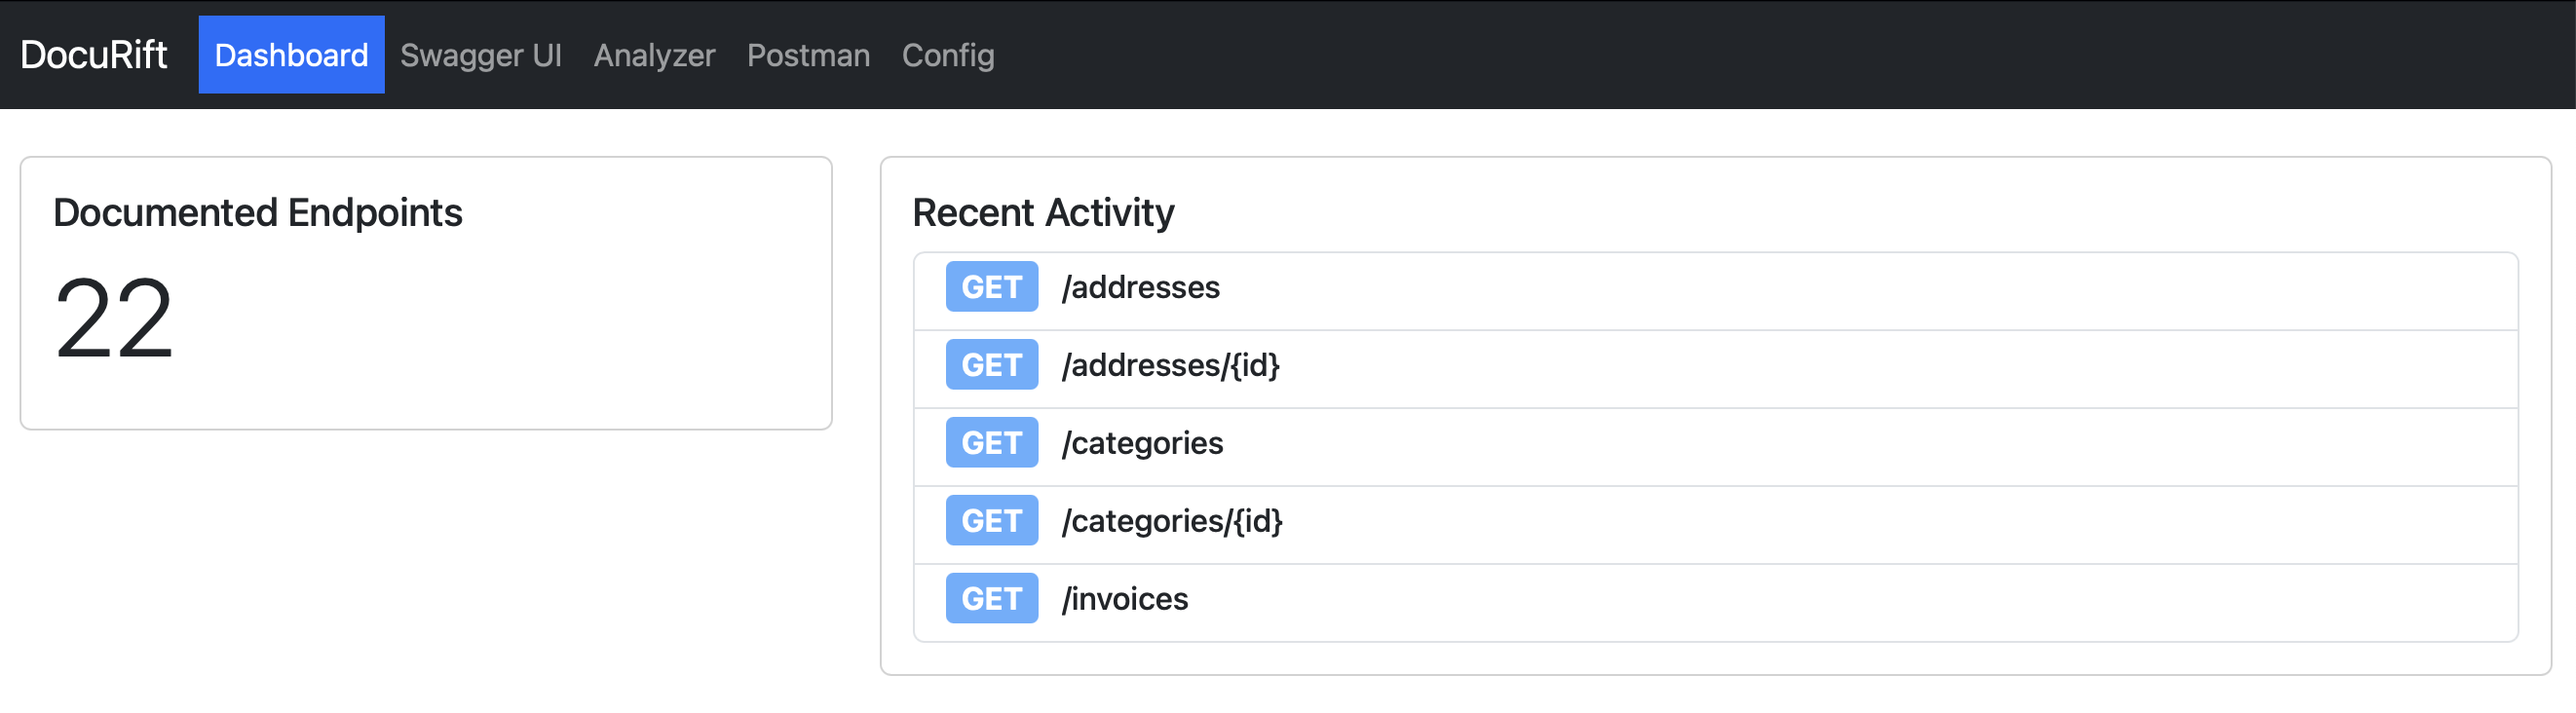
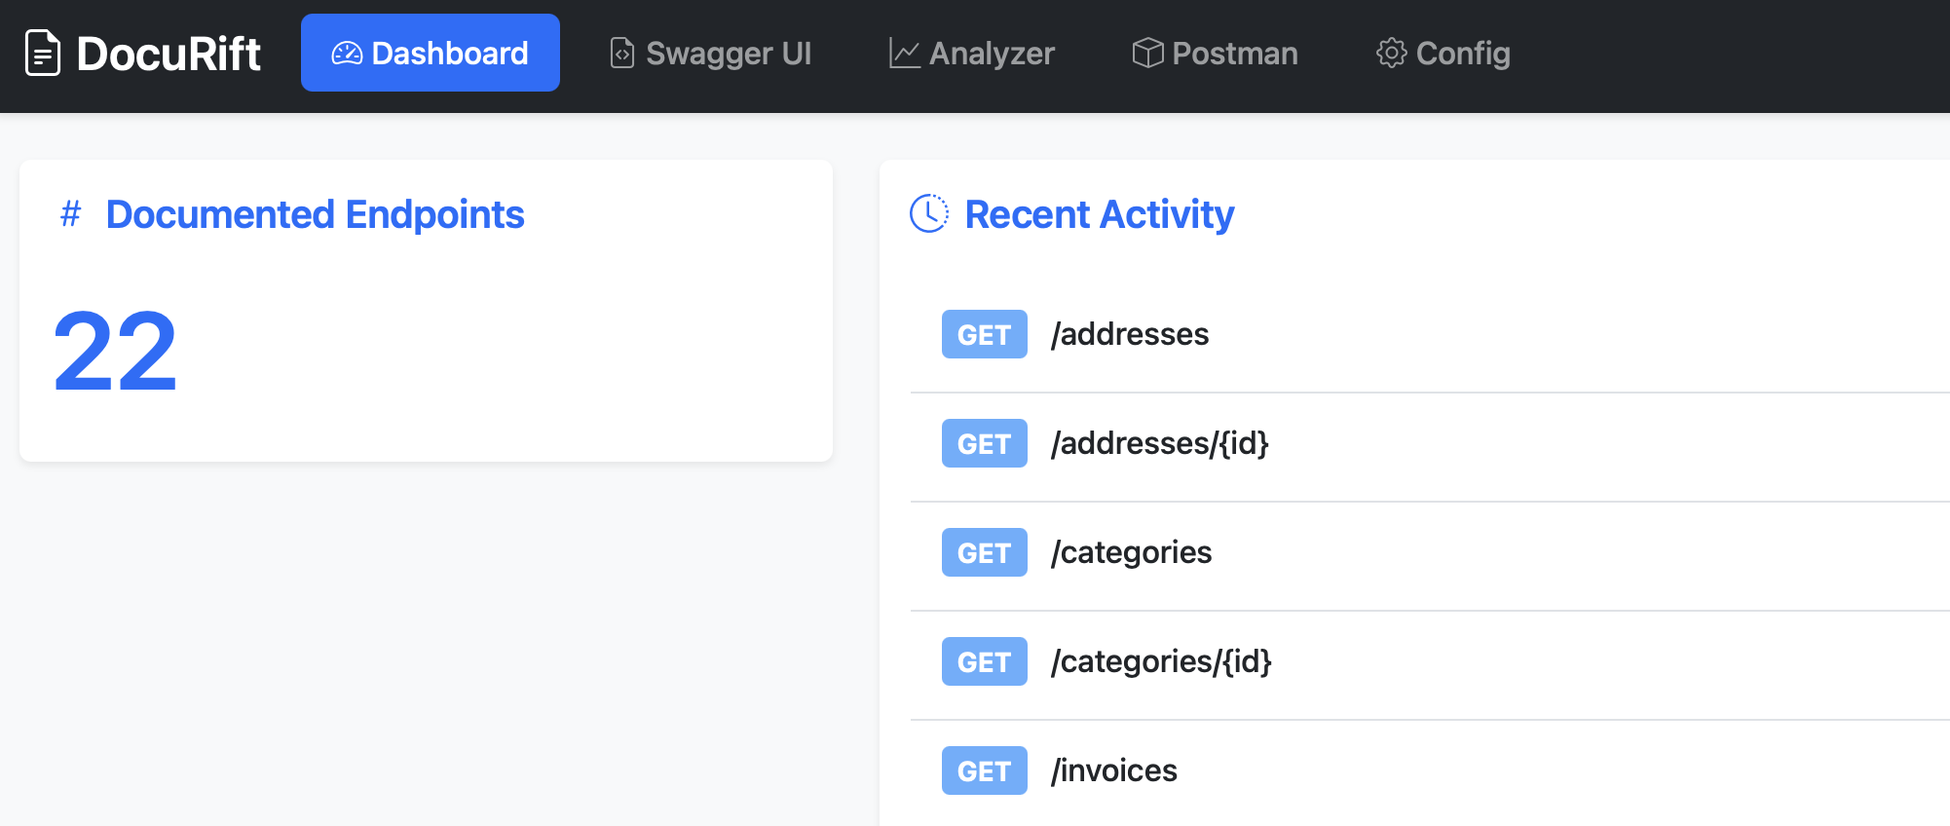
prettify ui

diff --git a/internal/analyzer/ui/index.html b/internal/analyzer/ui/index.html
@@ -7,55 +7,176 @@
     <title>DocuRift</title>
     <link href="https://cdn.jsdelivr.net/npm/bootstrap@5.3.0/dist/css/bootstrap.min.css" rel="stylesheet">
     <link href="https://cdn.jsdelivr.net/npm/prismjs@1.29.0/themes/prism-tomorrow.min.css" rel="stylesheet">
+    <link href="https://cdn.jsdelivr.net/npm/bootstrap-icons@1.11.0/font/bootstrap-icons.css" rel="stylesheet">
     <style>
+        :root {
+            --primary-color: #0d6efd;
+            --secondary-color: #6c757d;
+            --success-color: #198754;
+            --info-color: #0dcaf0;
+            --warning-color: #ffc107;
+            --danger-color: #dc3545;
+        }
+
+        body {
+            background-color: #f8f9fa;
+        }
+
+        .navbar {
+            box-shadow: 0 2px 4px rgba(0,0,0,.1);
+        }
+
+        .navbar-brand {
+            font-weight: 600;
+            font-size: 1.5rem;
+        }
+
+        .nav-link {
+            font-weight: 500;
+            padding: 0.5rem 1rem !important;
+            border-radius: 0.375rem;
+            margin: 0 0.25rem;
+            transition: all 0.2s ease-in-out;
+        }
+
+        .nav-link:hover {
+            background-color: rgba(255,255,255,.1);
+        }
+
         .nav-link.active {
-            background-color: #0d6efd !important;
+            background-color: var(--primary-color) !important;
             color: white !important;
         }
-        .json-viewer {
-            background-color: #1e1e1e;
-            border-radius: 4px;
-            padding: 1rem;
-            margin: 1rem 0;
+
+        .card {
+            border: none;
+            box-shadow: 0 0.125rem 0.25rem rgba(0,0,0,.075);
+            transition: transform 0.2s ease-in-out;
         }
+
+        .card:hover {
+            transform: translateY(-2px);
+        }
+
+        .card-title {
+            color: var(--primary-color);
+            font-weight: 600;
+            margin-bottom: 1.5rem;
+            display: flex;
+            align-items: center;
+            gap: 0.5rem;
+        }
+
+        .table {
+            margin-bottom: 0;
+        }
+
+        .table th {
+            font-weight: 600;
+            background-color: #f8f9fa;
+        }
+
         .endpoint-card {
             margin-bottom: 1rem;
+            border-left: 4px solid var(--primary-color);
         }
+
         .endpoint-method {
             font-weight: bold;
             padding: 0.25rem 0.5rem;
             border-radius: 4px;
             margin-right: 0.5rem;
+            font-size: 0.875rem;
         }
+
         .method-get { background-color: #61affe; color: white; }
         .method-post { background-color: #49cc90; color: white; }
         .method-put { background-color: #fca130; color: white; }
         .method-delete { background-color: #f93e3e; color: white; }
+
+        .json-viewer {
+            background-color: #1e1e1e;
+            border-radius: 8px;
+            padding: 1rem;
+            margin: 1rem 0;
+            max-height: 600px;
+            overflow-y: auto;
+        }
+
+        .btn-primary {
+            padding: 0.5rem 1.5rem;
+            font-weight: 500;
+        }
+
+        .list-group-item {
+            border-left: none;
+            border-right: none;
+            padding: 1rem;
+        }
+
+        .list-group-item:first-child {
+            border-top: none;
+        }
+
+        .list-group-item:last-child {
+            border-bottom: none;
+        }
+
+        .display-4 {
+            font-weight: 600;
+            color: var(--primary-color);
+        }
+
+        #swagger-frame {
+            border-radius: 8px;
+            box-shadow: 0 0.125rem 0.25rem rgba(0,0,0,.075);
+        }
+
+        .section {
+            animation: fadeIn 0.3s ease-in-out;
+        }
+
+        @keyframes fadeIn {
+            from { opacity: 0; transform: translateY(10px); }
+            to { opacity: 1; transform: translateY(0); }
+        }
     </style>
 </head>
 <body>
     <nav class="navbar navbar-expand-lg navbar-dark bg-dark">
         <div class="container-fluid">
-            <a class="navbar-brand" href="#">DocuRift</a>
+            <a class="navbar-brand" href="#">
+                <i class="bi bi-file-earmark-text"></i> DocuRift
+            </a>
             <button class="navbar-toggler" type="button" data-bs-toggle="collapse" data-bs-target="#navbarNav">
                 <span class="navbar-toggler-icon"></span>
             </button>
             <div class="collapse navbar-collapse" id="navbarNav">
                 <ul class="navbar-nav">
                     <li class="nav-item">
-                        <a class="nav-link active" href="#" data-section="dashboard">Dashboard</a>
+                        <a class="nav-link active" href="#" data-section="dashboard">
+                            <i class="bi bi-speedometer2"></i> Dashboard
+                        </a>
                     </li>
                     <li class="nav-item">
-                        <a class="nav-link" href="#" data-section="swagger">Swagger UI</a>
+                        <a class="nav-link" href="#" data-section="swagger">
+                            <i class="bi bi-file-earmark-code"></i> Swagger UI
+                        </a>
                     </li>
                     <li class="nav-item">
-                        <a class="nav-link" href="#" data-section="analyzer">Analyzer</a>
+                        <a class="nav-link" href="#" data-section="analyzer">
+                            <i class="bi bi-graph-up"></i> Analyzer
+                        </a>
                     </li>
                     <li class="nav-item">
-                        <a class="nav-link" href="#" data-section="postman">Postman</a>
+                        <a class="nav-link" href="#" data-section="postman">
+                            <i class="bi bi-box"></i> Postman
+                        </a>
                     </li>
                     <li class="nav-item">
-                        <a class="nav-link" href="#" data-section="config">Config</a>
+                        <a class="nav-link" href="#" data-section="config">
+                            <i class="bi bi-gear"></i> Config
+                        </a>
                     </li>
                 </ul>
             </div>
@@ -69,7 +190,9 @@
                 <div class="col-md-4">
                     <div class="card">
                         <div class="card-body">
-                            <h5 class="card-title">Documented Endpoints</h5>
+                            <h5 class="card-title">
+                                <i class="bi bi-hash"></i> Documented Endpoints
+                            </h5>
                             <h2 id="endpoint-count" class="display-4">0</h2>
                         </div>
                     </div>
@@ -77,7 +200,9 @@
                 <div class="col-md-8">
                     <div class="card">
                         <div class="card-body">
-                            <h5 class="card-title">Recent Activity</h5>
+                            <h5 class="card-title">
+                                <i class="bi bi-clock-history"></i> Recent Activity
+                            </h5>
                             <div id="recent-activity" class="list-group">
                                 <!-- Activity items will be added here -->
                             </div>
@@ -96,7 +221,9 @@
         <div id="analyzer" class="section d-none">
             <div class="card">
                 <div class="card-body">
-                    <h5 class="card-title">API Analysis</h5>
+                    <h5 class="card-title">
+                        <i class="bi bi-graph-up"></i> API Analysis
+                    </h5>
                     <div id="analyzer-content" class="json-viewer">
                         <pre><code class="language-json"></code></pre>
                     </div>
@@ -108,10 +235,12 @@
         <div id="postman" class="section d-none">
             <div class="card">
                 <div class="card-body">
-                    <h5 class="card-title">Postman Collection</h5>
+                    <h5 class="card-title">
+                        <i class="bi bi-box"></i> Postman Collection
+                    </h5>
                     <p>Download the Postman collection for this API:</p>
                     <a href="/api/postman.json" class="btn btn-primary" download="api-collection.json">
-                        Download Collection
+                        <i class="bi bi-download"></i> Download Collection
                     </a>
                 </div>
             </div>
@@ -124,7 +253,9 @@
                 <div class="col-md-6">
                     <div class="card">
                         <div class="card-body">
-                            <h5 class="card-title">Proxy Configuration</h5>
+                            <h5 class="card-title">
+                                <i class="bi bi-hdd-network"></i> Proxy Configuration
+                            </h5>
                             <div class="table-responsive">
                                 <table class="table table-striped">
                                     <thead>
@@ -145,7 +276,9 @@
                 <div class="col-md-6">
                     <div class="card">
                         <div class="card-body">
-                            <h5 class="card-title">Analyzer Configuration</h5>
+                            <h5 class="card-title">
+                                <i class="bi bi-gear"></i> Analyzer Configuration
+                            </h5>
                             <div class="table-responsive">
                                 <table class="table table-striped">
                                     <thead>
@@ -174,11 +307,11 @@
         document.querySelectorAll('.nav-link').forEach(link => {
             link.addEventListener('click', (e) => {
                 e.preventDefault();
-                const section = e.target.dataset.section;
+                const section = e.target.closest('.nav-link').dataset.section;
                 
                 // Update active state
                 document.querySelectorAll('.nav-link').forEach(l => l.classList.remove('active'));
-                e.target.classList.add('active');
+                e.target.closest('.nav-link').classList.add('active');
                 
                 // Show selected section
                 document.querySelectorAll('.section').forEach(s => s.classList.add('d-none'));
@@ -210,6 +343,7 @@
                                 <span class="endpoint-method method-${method.toLowerCase()}">${method}</span>
                                 ${path}
                             </h6>
+                            <small class="text-muted">${new Date().toLocaleTimeString()}</small>
                         </div>
                     `;
                     activityList.appendChild(item);
